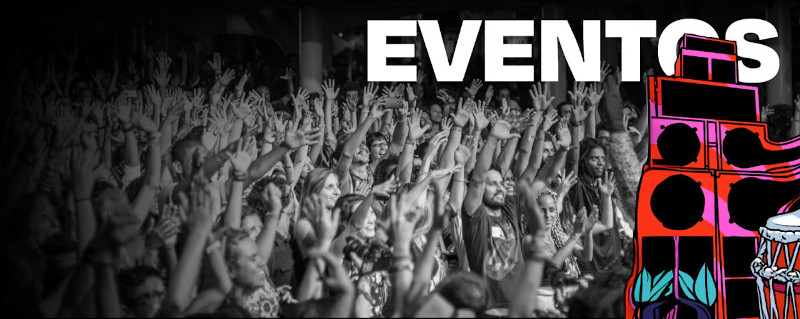
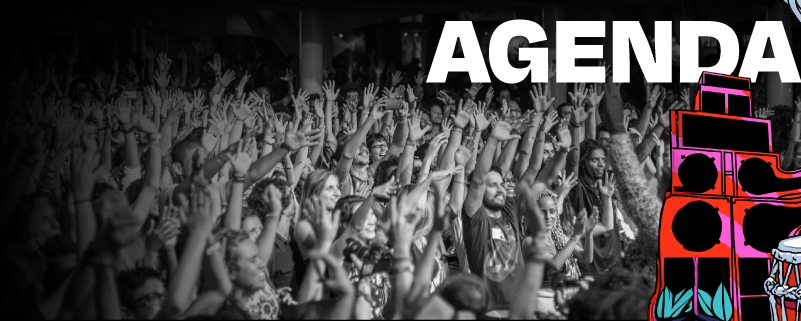
Altera os texto (eventos) para (agenda) Ref.: #33

diff --git a/themes/FlorestaAtivista/components/home-entities/template.php b/themes/FlorestaAtivista/components/home-entities/template.php
@@ -81,7 +81,7 @@ $this->import('
                         </div>                        
                         <div class="card__left--content-title">
                             <label class="title">
-                                <?= i::__('Eventos') ?>
+                                <?= i::__('Agenda') ?>
                             </label>
                         </div>
                     </div>

diff --git a/docker/common/config.d/routes.php b/docker/common/config.d/routes.php
@@ -42,5 +42,7 @@ $routes["shortcuts"]['comunidades'] = ["search", "communities"];
 unset($routes['shortcuts']['agentes']);
 $routes["shortcuts"]['perfis'] = ["search", "agents"];
 
+unset($routes['shortcuts']['eventos']);
+$routes["shortcuts"]['agendas'] = ["search", "events"];
 
 return ['routes' => $routes];
